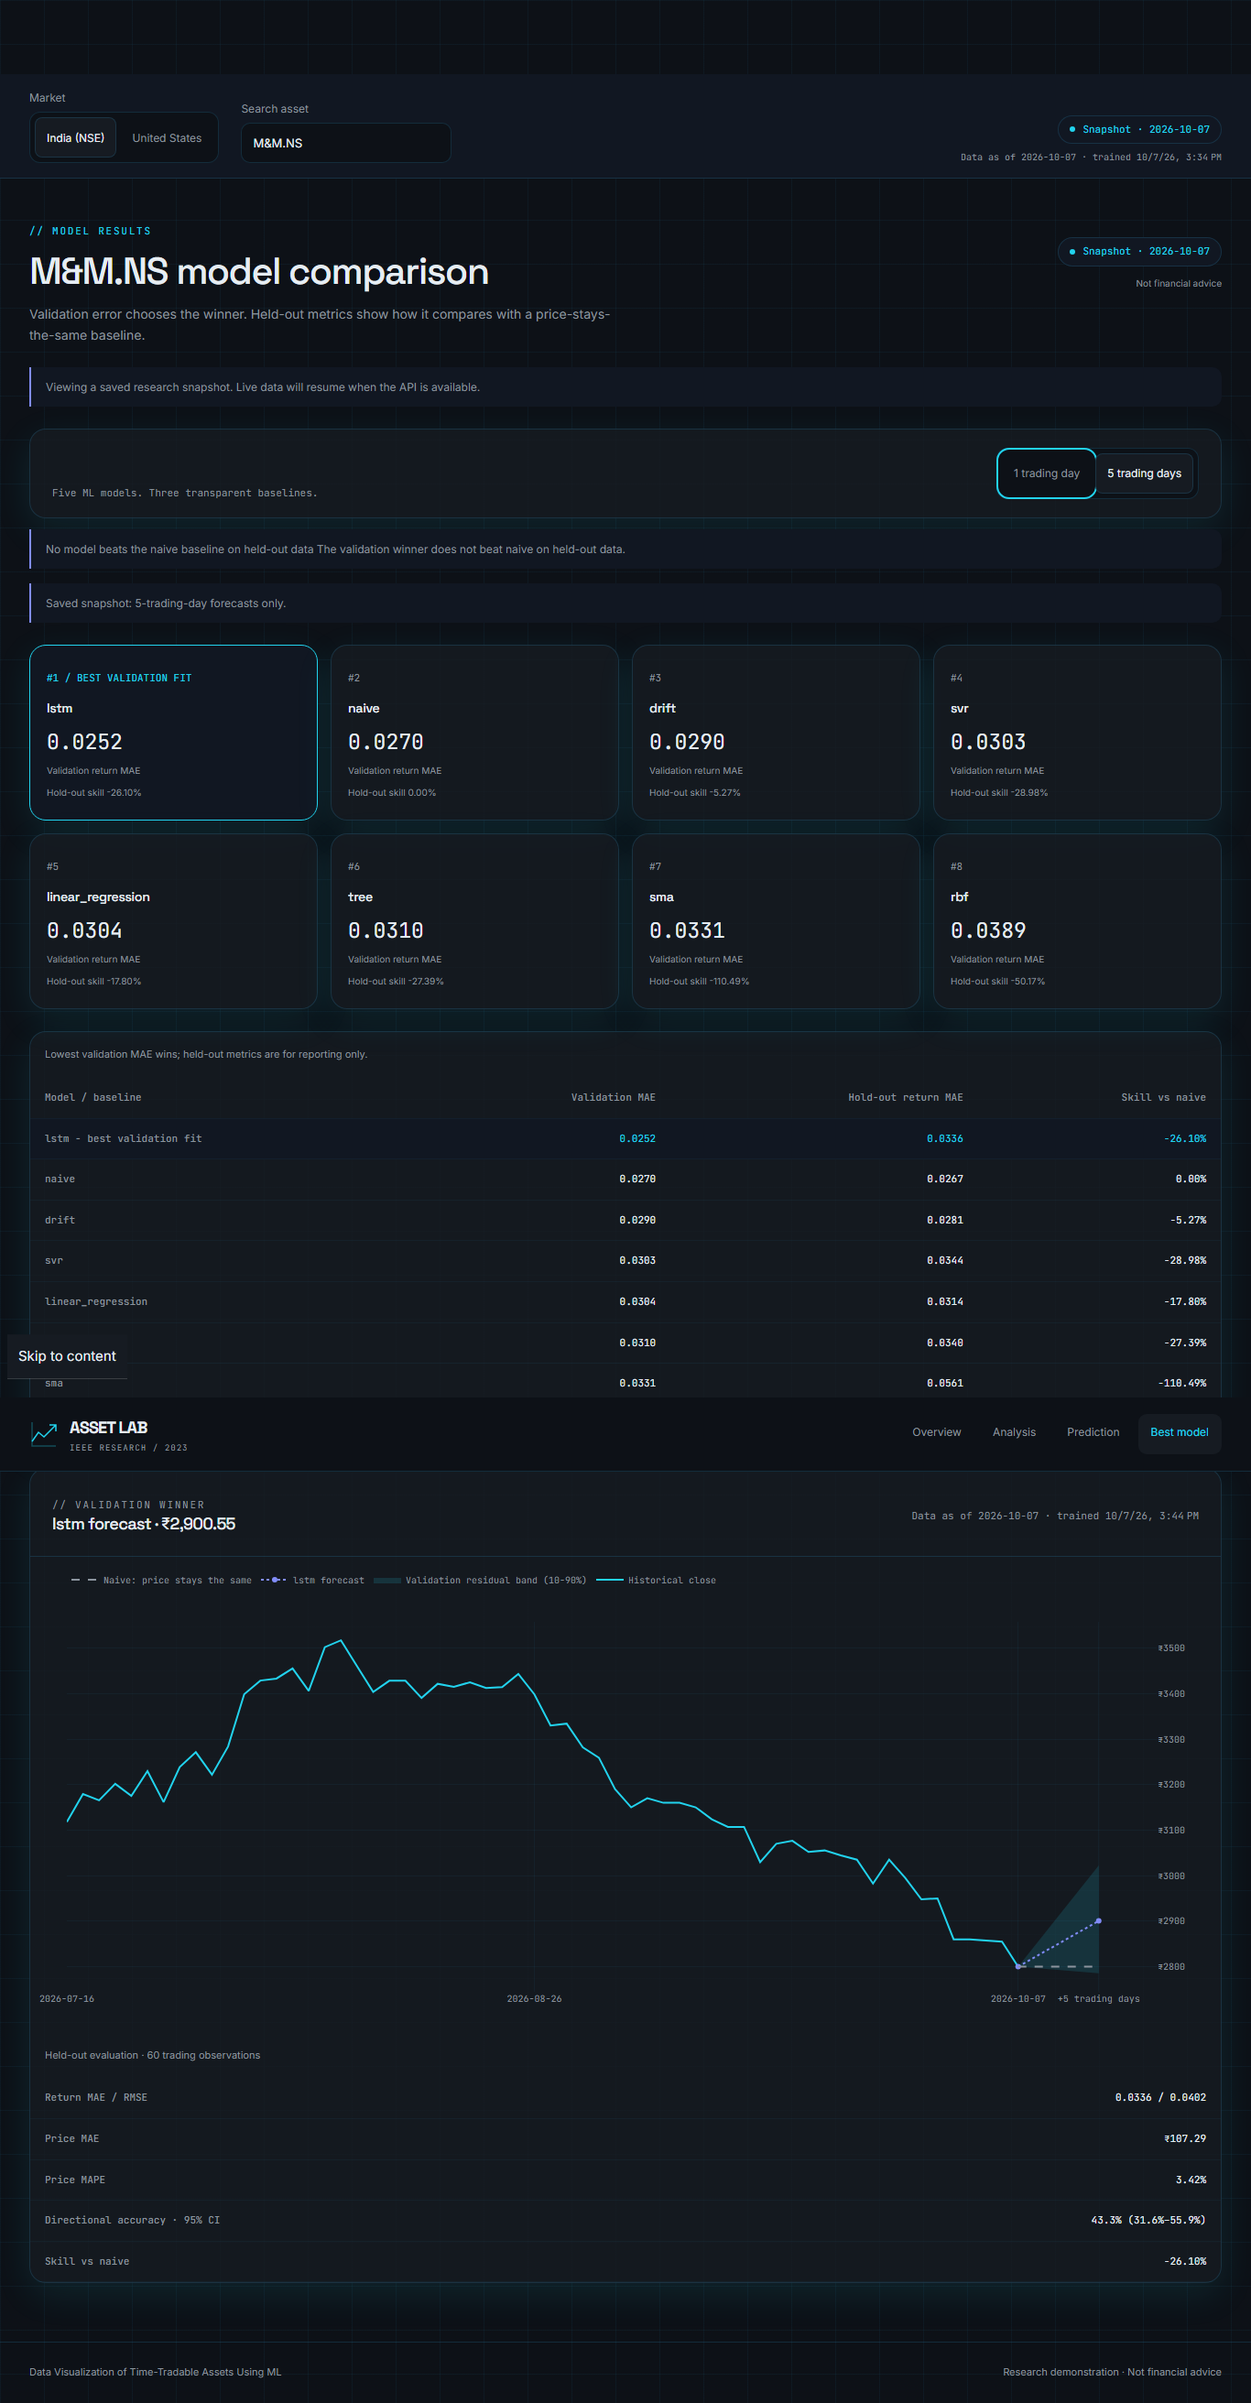
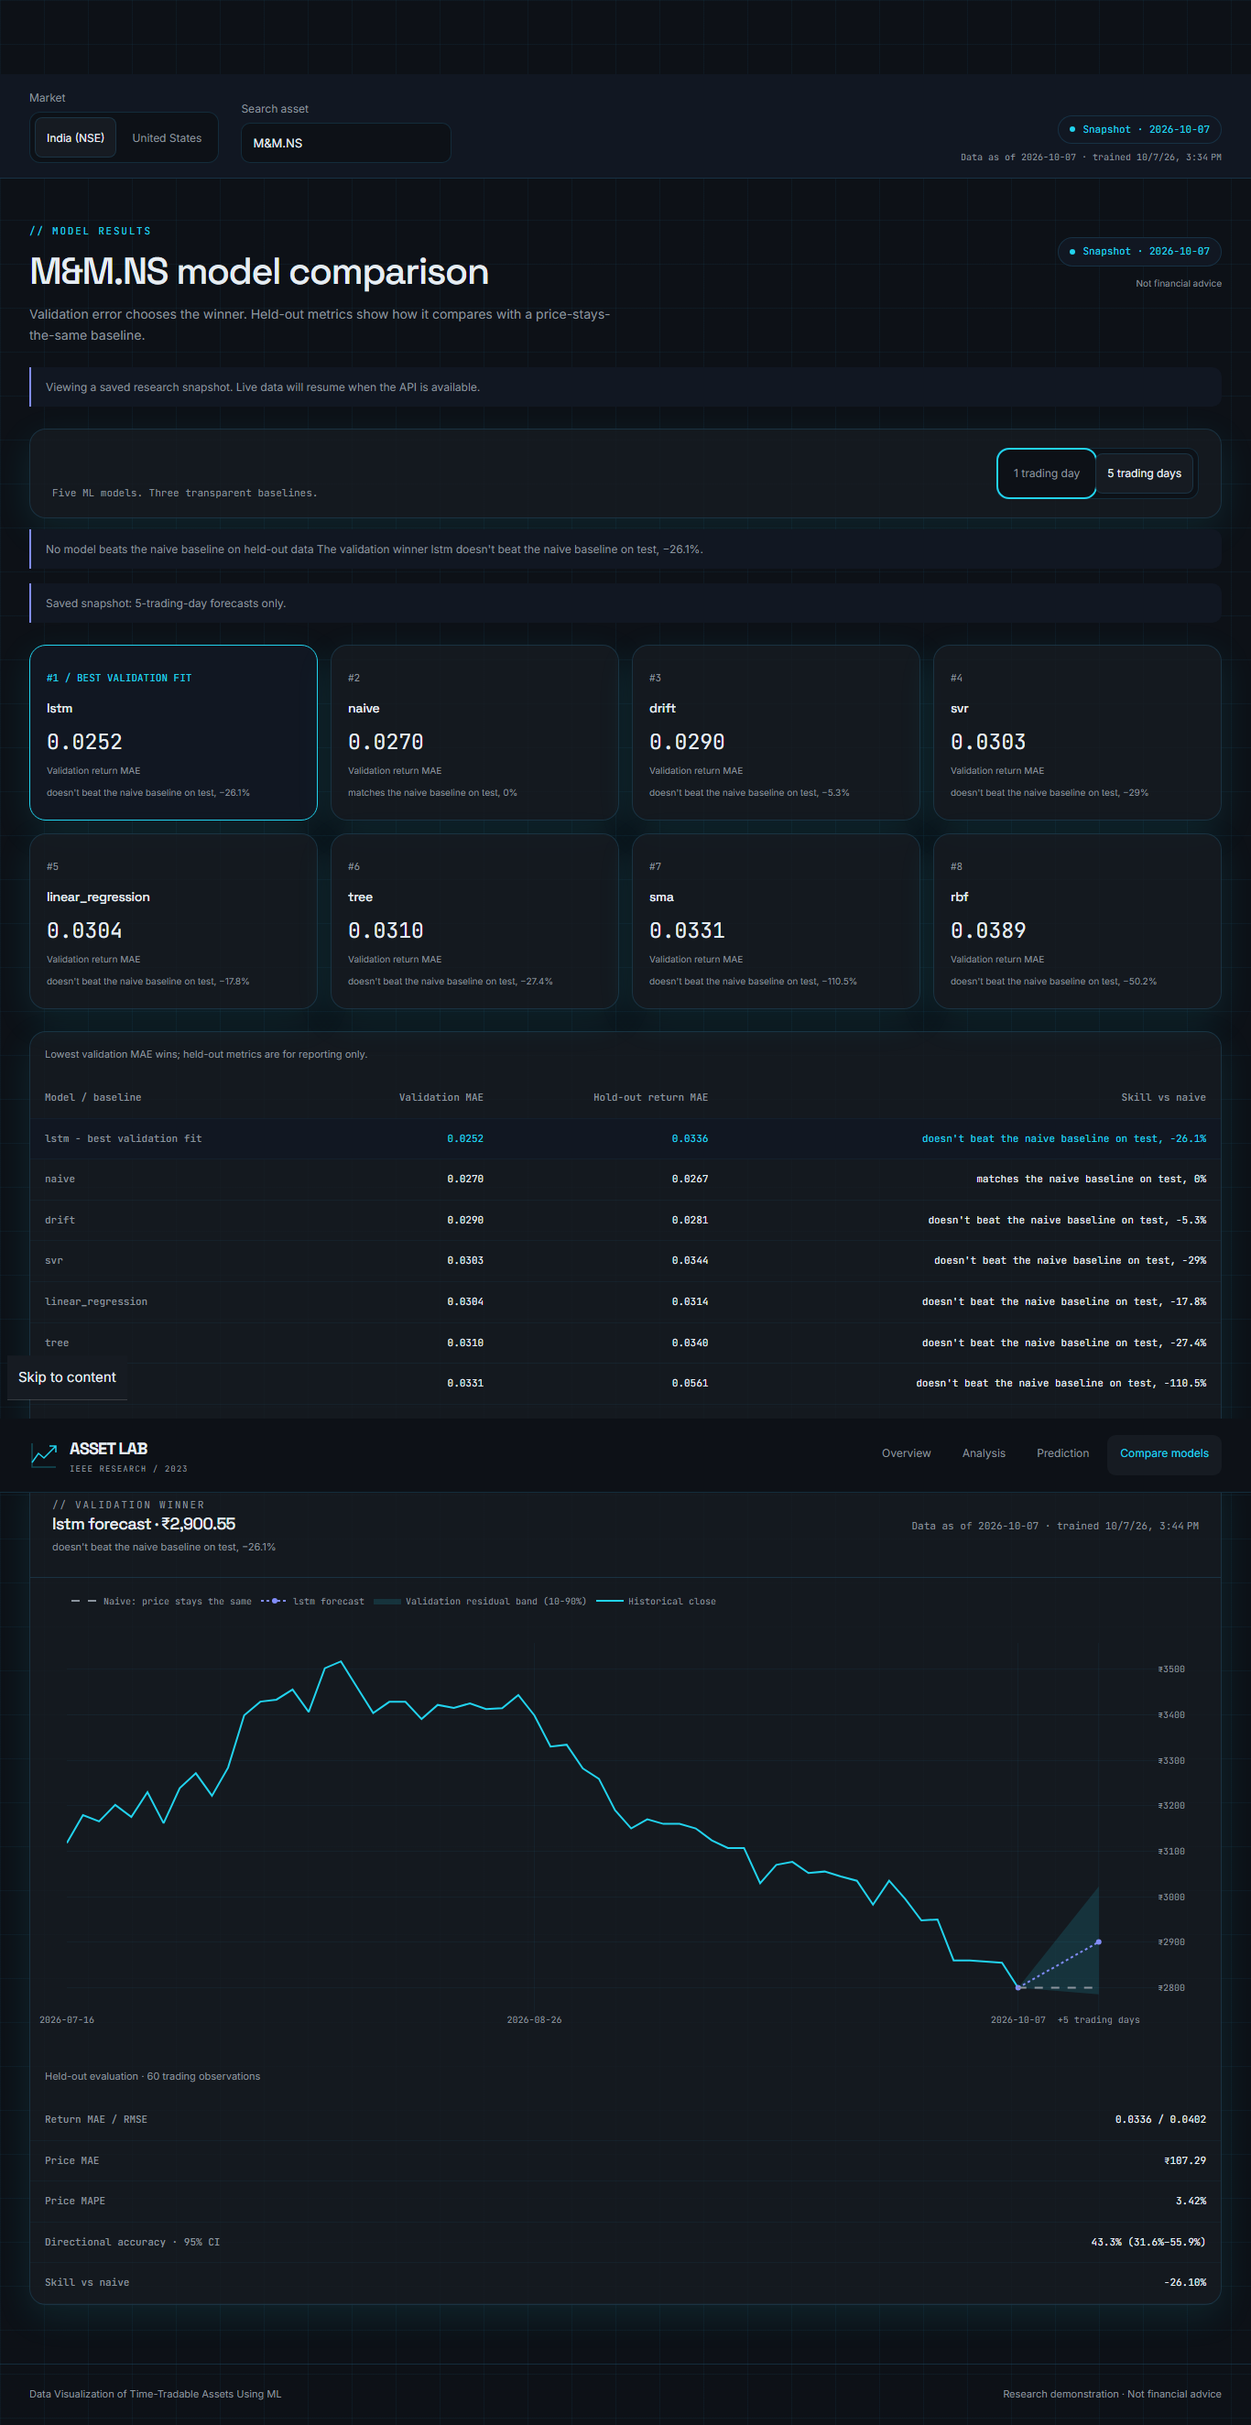
docs: add desktop and mobile UI screenshots and pre-merge checks

diff --git a/README.md b/README.md
@@ -4,35 +4,43 @@ An Angular 22 and FastAPI market-data terminal built around a 2023 IEEE student 
 
 This is a portfolio and learning project, **not investment advice, a trading system, or a validated price-prediction service**. The interface must not be presented as proof that a forecast is accurate or financially actionable.
 
+## UI screenshots
+
+Aurora UI from this PR's production build, shown with saved snapshot data. The live/snapshot badge identifies the data source; the design is the same in either mode.
+
+| Page | Desktop (1366 px) | Mobile (390 px) |
+| --- | --- | --- |
+| Overview | ![Research overview on desktop](docs/screenshots/after-home-1366.png) | ![Research overview on mobile](docs/screenshots/after-home-390.png) |
+| Analysis | ![Market analysis on desktop](docs/screenshots/after-analysis-1366.png) | ![Market analysis on mobile](docs/screenshots/after-analysis-390.png) |
+| Prediction | ![Forecast band and naive baseline on desktop](docs/screenshots/after-prediction-1366.png) | ![Forecast band and naive baseline on mobile](docs/screenshots/after-prediction-390.png) |
+| Model comparison | ![Model leaderboard and test skill on desktop](docs/screenshots/after-best-analysis-1366.png) | ![Model leaderboard and test skill on mobile](docs/screenshots/after-best-analysis-390.png) |
+
+[Live demo](https://data-visualization-of-time-tradable-assets-using-ml.medhainnovation2026.workers.dev) · [Evaluation methodology](docs/EVALUATION.md) · [Deployment report](docs/V2_DEPLOYMENT_REPORT.md)
+
 ## What is implemented
 
-- Angular 22 standalone frontend with signal-based shared terminal state, company search, theme preference, and responsive terminal UI.
-- Plotly-based candlestick/price visualizations with SMA, EMA, Bollinger Bands, RSI, and MACD values calculated by the API.
-- FastAPI endpoints for company metadata, historical OHLCV data, technical indicators, predictions, best-model comparison, and health checks.
-- Yahoo Finance data retrieval through `yfinance`, with a 60-second process-local data cache.
-- Linear regression, decision-tree, linear-SVR, RBF-SVR, and PyTorch LSTM code paths. Prediction responses are cached in process for 90 seconds.
-- A 50-sample shifted-target demonstration displayed in the UI as a 50-trading-day projection.
-- Deployment assets for a Cloudflare Pages frontend and a systemd-managed FastAPI backend on a personal server, exposed through a Cloudflare tunnel.
+- Angular 22 standalone Aurora frontend with signals, accessible searchable asset selection, India/US controls and native currencies.
+- Lazy Plotly charts for OHLCV, volume, technical indicators, 1/5-day forecasts, empirical forecast bands and the naive baseline.
+- Official Nifty 50 constituents plus the index (51 India assets), and seven US assets.
+- Five ML models and three baselines, selected by expanding walk-forward validation MAE, with a separate held-out test set.
+- Nightly deterministic CPU training writes atomic artifacts; API requests serve those artifacts without on-demand training.
+- Honest test metrics and skill versus naive beside the validation winner. Directional accuracy is N/A for naive or zero-return forecasts.
+- Static h=5 fallback covering all 58 assets, with Snapshot date badges when the live API is unavailable.
+- Cloudflare Worker frontend and a hardened, resource-limited systemd API/training timer on medha-storage.
 
-## Important model boundary
+## Model boundary
 
-The current prediction implementation trains against a shifted close-price target from a downloaded 200-day series, uses a random `train_test_split`, and returns predictions aligned to the final portion of the returned historical records. It is a code demonstration, not a walk-forward forecast evaluation. The displayed R² is a held-out score from that split; it is **not** a measure of future market performance and must not be called “model confidence.”
-
-Before making any accuracy or trading-performance claim, add a time-ordered train/validation/test split, a naive baseline, walk-forward evaluation, saved run metadata, error metrics, and a clear separation between in-sample estimates and future dates.
+Validation selects the winner; test metrics report its performance and never select it. A validation winner can perform worse than the naive baseline on test. The empirical residual band is not a guarantee, and these v2 results are not comparable to the paper's published results. See [EVALUATION.md](docs/EVALUATION.md) for splits, leakage checks, metrics and limitations.
 
 ## Architecture
 
 ```text
-Browser
-  └─ Angular 22 + Plotly terminal
-       └─ HTTP API
-            └─ FastAPI
-                 ├─ StockService → yfinance → process-local TTL cache
-                 ├─ indicator calculations → JSON records
-                 └─ PredictionService → scikit-learn / optional PyTorch → TTL cache
+Browser -> Angular + lazy Plotly -> live FastAPI artifacts
+                                -> static snapshot fallback
+Nightly CPU training -> raw cache + atomic model artifacts
 ```
 
-The Cloudflare frontend and the FastAPI backend are separately deployed. The checked-in production environment points at a temporary Cloudflare Tunnel URL; treat that endpoint as operational configuration which may change, not a permanent public API contract.
+The permanent API is https://stock-api.medhainnovation.com/api. The frontend and backend deploy separately; the API's production CORS origin is restricted to the demo Worker.
 
 ## Local setup
 
@@ -46,7 +54,7 @@ pip install -r requirements.txt
 uvicorn app.main:app --reload --port 8000
 ```
 
-The API health endpoint is `http://localhost:8000/api/health`.
+The API health endpoint is `http://localhost:8000/health`.
 
 ### Frontend
 
@@ -54,7 +62,7 @@ Set `frontend/src/environments/environment.ts` to the appropriate local API URL,
 
 ```bash
 cd frontend
-npm install
+npm ci
 npm start
 ```
 
@@ -68,18 +76,16 @@ npm run build
 
 | Endpoint | Purpose |
 | --- | --- |
-| `GET /api/health` | Process health response |
-| `GET /api/companies` | Supported company/ticker list |
-| `GET /api/stocks/{ticker}/ohlcv?period=180d` | Historical OHLCV records |
-| `GET /api/stocks/{ticker}/moving-average?days=50&period=180d` | OHLCV plus technical-indicator values |
-| `GET /api/predictions/{ticker}/predict?model=linear_regression` | One model demonstration |
-| `GET /api/predictions/{ticker}/best-model` | Compares configured model paths on the current data sample |
+| `GET /health` | Process health response |
+| `GET /api/markets` | Supported markets/currencies |
+| `GET /api/companies/?market=in` or `?market=us` | Exact supported asset catalog |
+| `GET /api/stocks/{ticker}/ohlcv?period=180d` | Cached historical OHLCV records |
+| `GET /api/stocks/{ticker}/moving-average?period=180d` | OHLCV plus technical indicators |
+| `GET /api/predictions/{ticker}/predict?model=linear_regression&horizon=1` | Cached 1/5-day forecast, band and held-out metrics |
+| `GET /api/predictions/{ticker}/best-model?horizon=5` | Validation winner and leaderboard including baselines |
+| `GET /api/models/status` | Training date, data dates and failures |
 
-## Interview-safe project summary
-
-> I built a split Angular and FastAPI market-data terminal: Angular holds terminal state and renders Plotly charts, while FastAPI retrieves OHLCV data, computes indicators, and exposes several small forecasting-model implementations. I used short TTL caches because interactive selection changes can otherwise repeat external data requests and model work. I’m explicit that the current forecasting path is a learning demonstration, not a trading signal: it needs time-series backtesting and baselines before any predictive-performance claim.
-
-The model and data boundaries above are the public project summary; interview notes are kept outside this repository.
+URL-encode ticker path segments, including `M&M.NS` as `M%26M.NS`. Local forecasting endpoints require trained artifacts; an untrained symbol returns 404 rather than training in the request.
 
 ## Repository layout
 
@@ -89,13 +95,21 @@ backend/app/              FastAPI routes, services, schemas, and LSTM model
 deploy/                   systemd, Nginx, tunnel, and deployment assets
 ```
 
-## Current limitations and next work
+## Limitations
 
-- The API permits all CORS origins; deploy a restricted allow-list before treating it as a production service.
-- Cache entries are process-local, so they do not coordinate across workers or survive a restart.
-- There is no authentication, rate limiting, persistent cache, API-provider fallback, or automated endpoint/model test suite. CI currently builds the Angular app and compiles the FastAPI package.
-- Fundamentals shown in the UI include placeholder/static values and need a source-backed API before being described as live financial data.
-- The LSTM is trained on demand and has no persisted artifacts, seed/run tracking, or comparative backtest report.
+Daily data can be delayed or include an incomplete latest bar. Forecasts exclude transaction costs and are research experiments, not trading advice. Static snapshots include h=5 only; fallback clearly switches to that saved horizon. Caches are process-local, while raw data and forecast artifacts persist on disk. Training and API resource limits protect the existing tunnel.
+
+## Checks
+
+```bash
+npm ci --prefix frontend
+npm run build --prefix frontend
+node scripts/check_forecast_labels.cjs
+node scripts/check_ticker_paths.cjs
+node scripts/check_build_assets.cjs
+```
+
+The final check requires all 701 snapshot files in the deploy assets to match the verified fb2ff6a7 snapshot bytes. CI also runs backend leakage, sanity, metrics, deterministic training and artifact-serving tests. Browser screenshot and forecast-label checks are in `scripts/` and use external Playwright tooling.
 
 ## License
 

diff --git a/docs/V2_DEPLOYMENT_REPORT.md b/docs/V2_DEPLOYMENT_REPORT.md
@@ -1,4 +1,6 @@
-# V2 + Aurora deployed and verified
+# V2 + Aurora: deployed baseline and pre-merge UI corrections
+
+Pre-merge review update: production remains fb2ff6a7; the new honest-label fixes and README screenshots are PR-only. Workers Builds cannot yet be connected because Cloudflare reports a disconnected Git account (8000008). No merge or new production deployment was performed.
 
 Branch: feat/india-honest-forecasting, created from origin/main in a separate worktree. Backend deployment checkout: 2fa850e8431b0790047b71a08bf5d91d038b7e07 (subsequent commits change tests/docs only). Artifact training commit: 67a9517712587f949c646f38be50da3bc9345615. Production Worker: fb2ff6a7-ea83-45b7-a4bb-d6779b9cb302 at 100%. The original Aurora worktree remains untouched at 8f1e21d2e9ecfb965473213d1f3377e3f8aae2d2.
 
@@ -191,3 +193,20 @@ Only after those checks, the exact preview origin was removed from stock-api.ser
 External curl confirmed API health 200, both markets, matching production ACAO and no ACAO for the removed preview origin. All existing Medha sites returned 200 and both SSH hosts worked. A final post-cleanup production home check passed at desktop/mobile with Live badges, no overflow and no console/network errors. No WAF, tunnel, firewall, sshd or unrelated systemd unit changed. The public preview can now intentionally fall back to snapshots because its CORS origin was removed as requested.
 
 GitHub publication encountered repeated receive-pack HTTP 500 over HTTPS and SSH; a tiny Git Data blob POST with the old API version also returned empty-body 500. A blob POST using the documented 2026-03-10 API version succeeded. Publication fallback uses GitHub's documented Git Data API, with assertions that uploaded blobs, tree and commit hashes exactly match the local objects, and a non-force fast-forward branch update. This avoids history rewriting; the reason for the original Git transport server errors remains unconfirmed. Official reference: https://docs.github.com/en/rest/git/commits#create-a-commit.
+
+
+## Pre-merge review fixes and README screenshots
+
+The user requested test skill anywhere the winner is described and N/A directional accuracy for naive/zero-return forecasts. All winner displays (banner, winning card, leaderboard row and forecast heading) now show a shared test-skill label; negative skill explicitly says "doesn't beat the naive baseline on test, -26%" with a typographic minus in the UI. Generic navigation/home links are named Compare models, avoiding an unsupported standalone best-model claim. The shared metrics table receives model identity and forecast return from both prediction and comparison pages; it shows N/A for naive, zero or nonfinite forecasts. A nonzero forecast with measured 0% accuracy still displays 0%, rather than hiding an unfavorable result. Backend metrics, artifacts, snapshots and API contracts are unchanged.
+
+Tests: check_forecast_labels.cjs covers positive, negative, zero and missing skill plus naive/zero/nonzero/invalid directions and runs in CI. check_forecast_ui.cjs tests negative validation-winner wording in every winner display, naive and zero-return N/A, and the real 0% nonzero-forecast case in rendered mobile DOM. All three mocked snapshot fixtures pass; forecast-label-ui-checks.json records evidence. The complete four-page/five-viewport snapshot suite passed all twenty checks on the revised build, with no overflow or unexpected console/HTTP errors. The controlled leaderboard readiness regression and URL mapping checks also pass. Build has no warnings and remains 323.70 KB initial / 90.77 KB estimated transfer.
+
+README now includes desktop/mobile screenshots for Overview, Analysis, Prediction and Model comparison, and corrects obsolete v1 implementation claims to match the v2 UI. Screenshots show the revised local production build using real saved snapshots, with the Snapshot badge visible. The UI was not deployed before merge.
+
+Baseline identity: before editing the application, SHA-256 hashes were recorded for all 722 deploy assets. External curl verified all 722 bytes against immutable fb2ff6a7, including all 701 snapshot files; fb2ff6a7-asset-verification.json and fb2ff6a7-local-asset-hashes.json preserve proof. The asset validator initially fetched index.html without following its expected 307 redirect to /; after confirming that redirect, the command used --location and every hash matched. The new UI necessarily changes JS/HTML asset hashes, so a claim that the revised build is fully identical to fb2ff6a7 would be false. All snapshot bytes remain identical; check_build_assets.cjs enforces the full 701-file snapshot before deployment and in CI. Intentional future snapshot refreshes require a reviewed baseline-hash update.
+
+Main currently has 65 v1 snapshot files and PR #2 is still open. Cloudflare read-only inspection of Worker tag 3415b8e85d06472b951388f9cbc13649 in the medhainnovation2026 account returned no build configuration (12040) and zero triggers. The user authorized configuring main builds. The proposed configuration links the existing repo, main branch, frontend root, Node 22, npm ci && npm run build, and deploy command node ../scripts/check_build_assets.cjs && npx --yes wrangler@4.148.0 deploy. The guard also prevents an old main checkout without the v2 snapshots/check from being deployed. Previews are disabled; this feature branch must not promote automatically.
+
+Creating the build configuration was rejected with Cloudflare 8000008: the project is disconnected from its Git account. No trigger was created, confirmed by a subsequent empty trigger list. Wrangler OAuth does not authorize the separate Cloudflare GitHub app. The user was asked to reconnect the Workers & Pages app and grant this repository access; configuration and post-merge auto-deploy/API-stop verification remain pending that connection and the user's merge. No token value was read or copied; existing build-token references were inspected only as metadata. A read-only token-policy query was unauthorized and no token policy was changed.
+
+Own local corrections: closed an Angular conditional in the new banner template before rebuilding; restarted the local static preview after build output replacement; scoped the winner-banner test to direct component children instead of the shared snapshot notice. These were local implementation/test corrections, not production/server failures.
